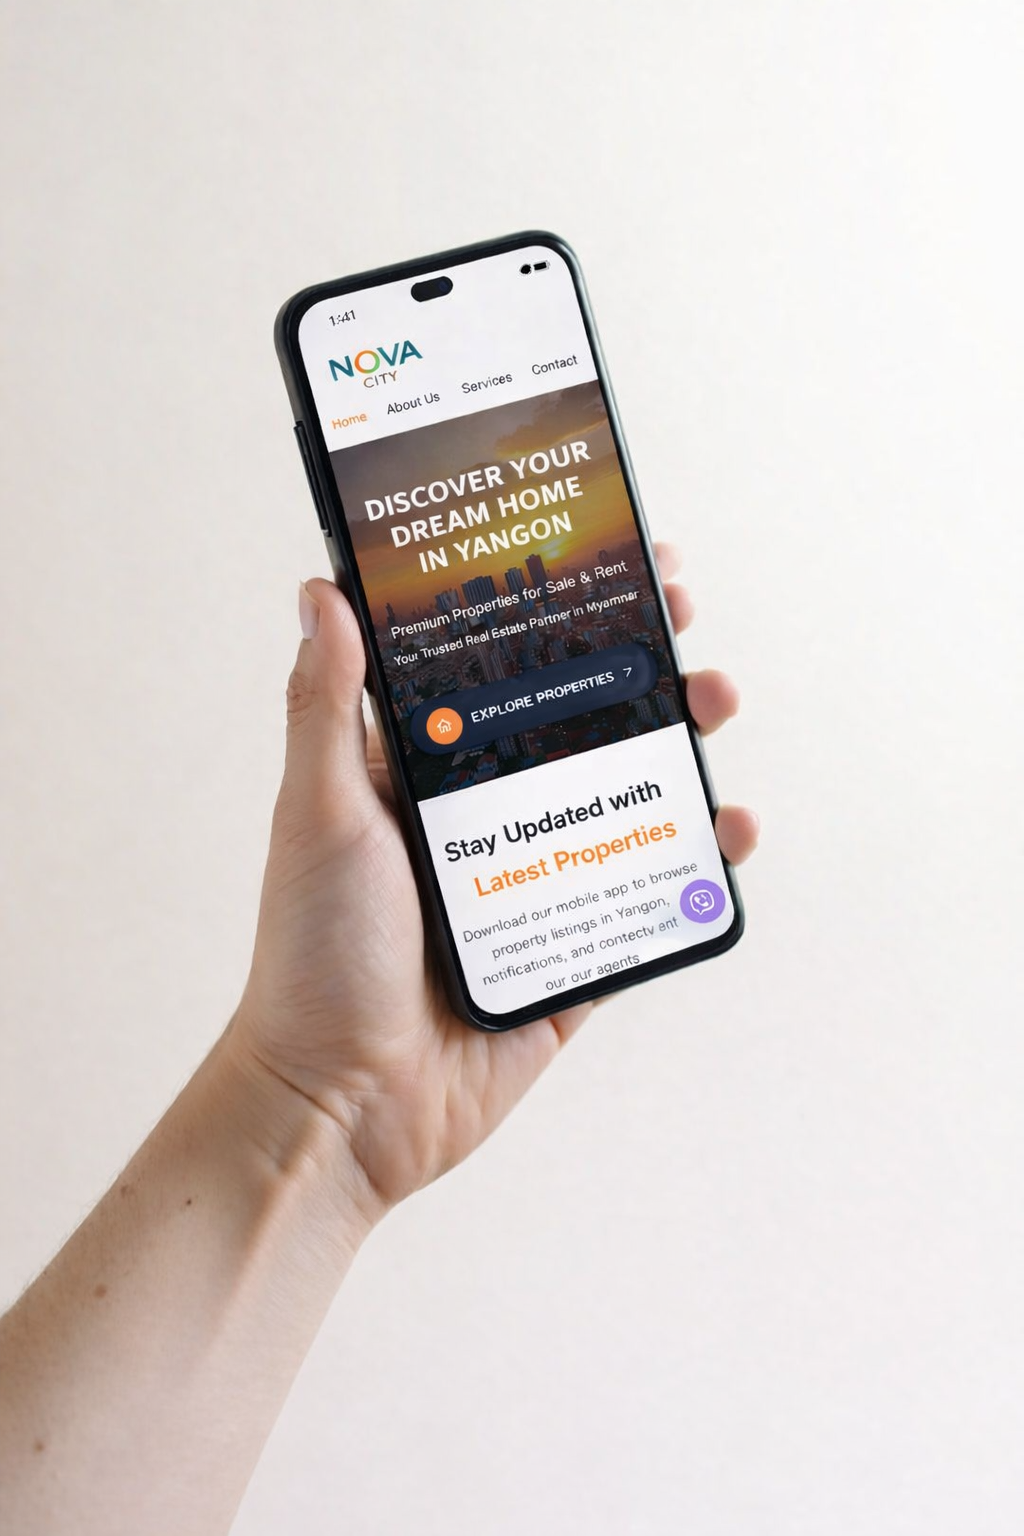
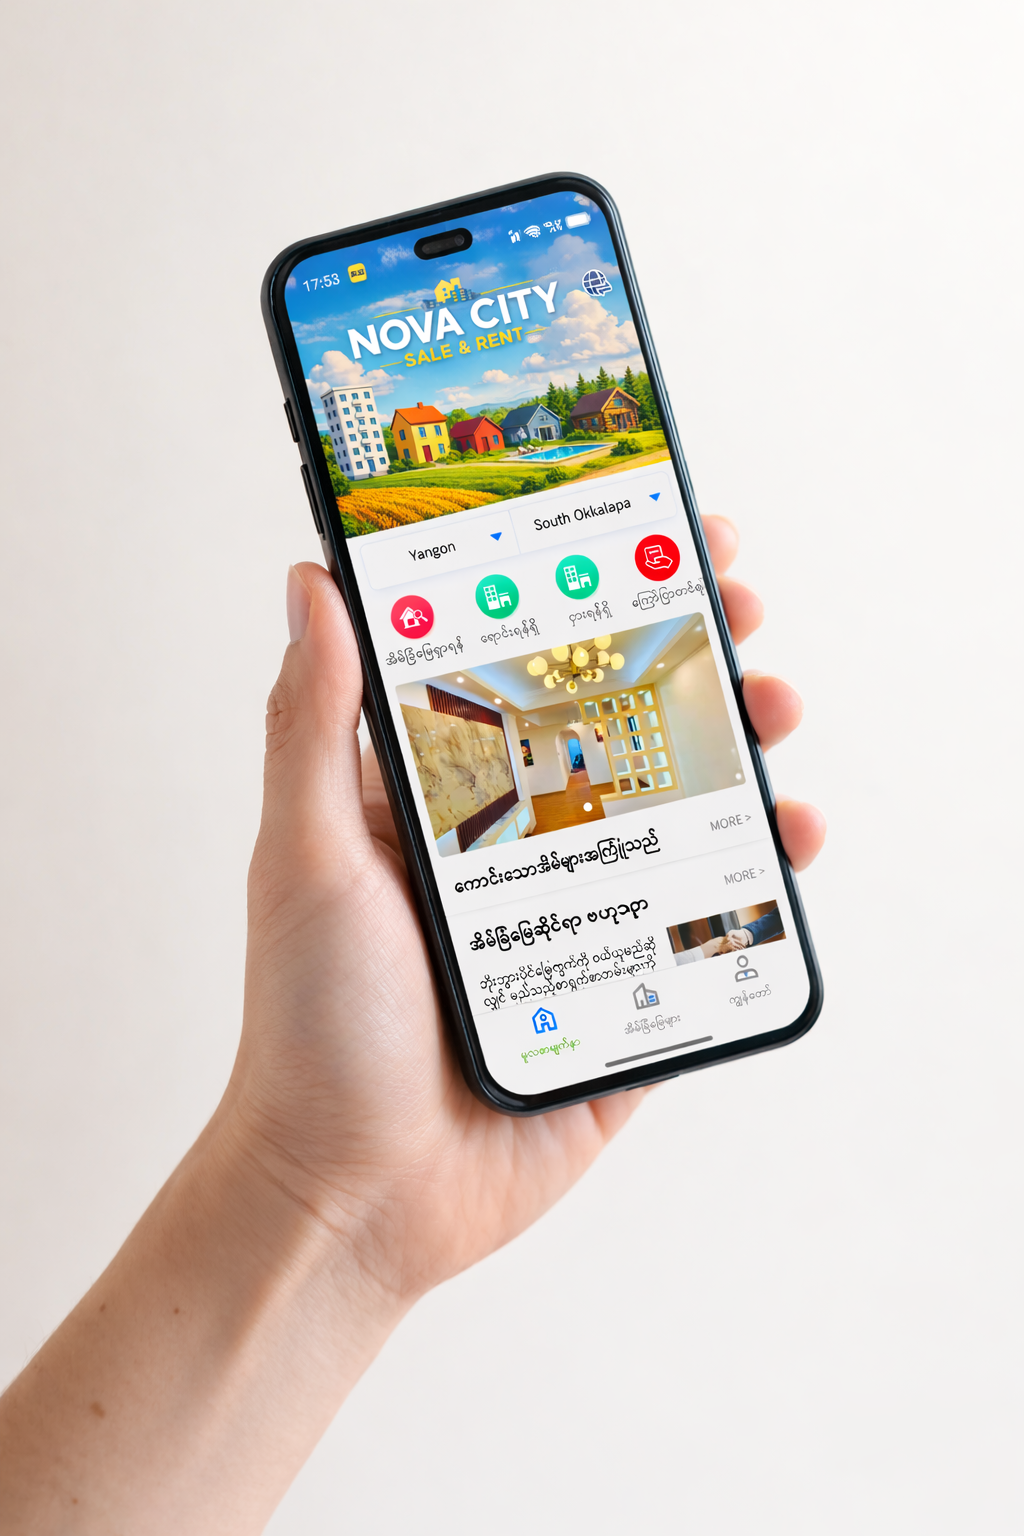
Updated the google analytics script tag

Changed region(s): [[0.0, 0.0938, 0.8125, 1.0]]

diff --git a/mmnovacity/index.html b/mmnovacity/index.html
@@ -81,13 +81,13 @@
     </script>
 
     <!-- Google tag (gtag.js) -->
-    <script async src="https://www.googletagmanager.com/gtag/js?id=G-NX1L515ZX1"></script>
+    <script async src="https://www.googletagmanager.com/gtag/js?id=G-JBPYRRGMY2"></script>
     <script>
       window.dataLayer = window.dataLayer || [];
       function gtag(){dataLayer.push(arguments);}
       gtag('js', new Date());
 
-      gtag('config', 'G-NX1L515ZX1');
+      gtag('config', 'G-JBPYRRGMY2');
     </script>
   </head>
   <body>
